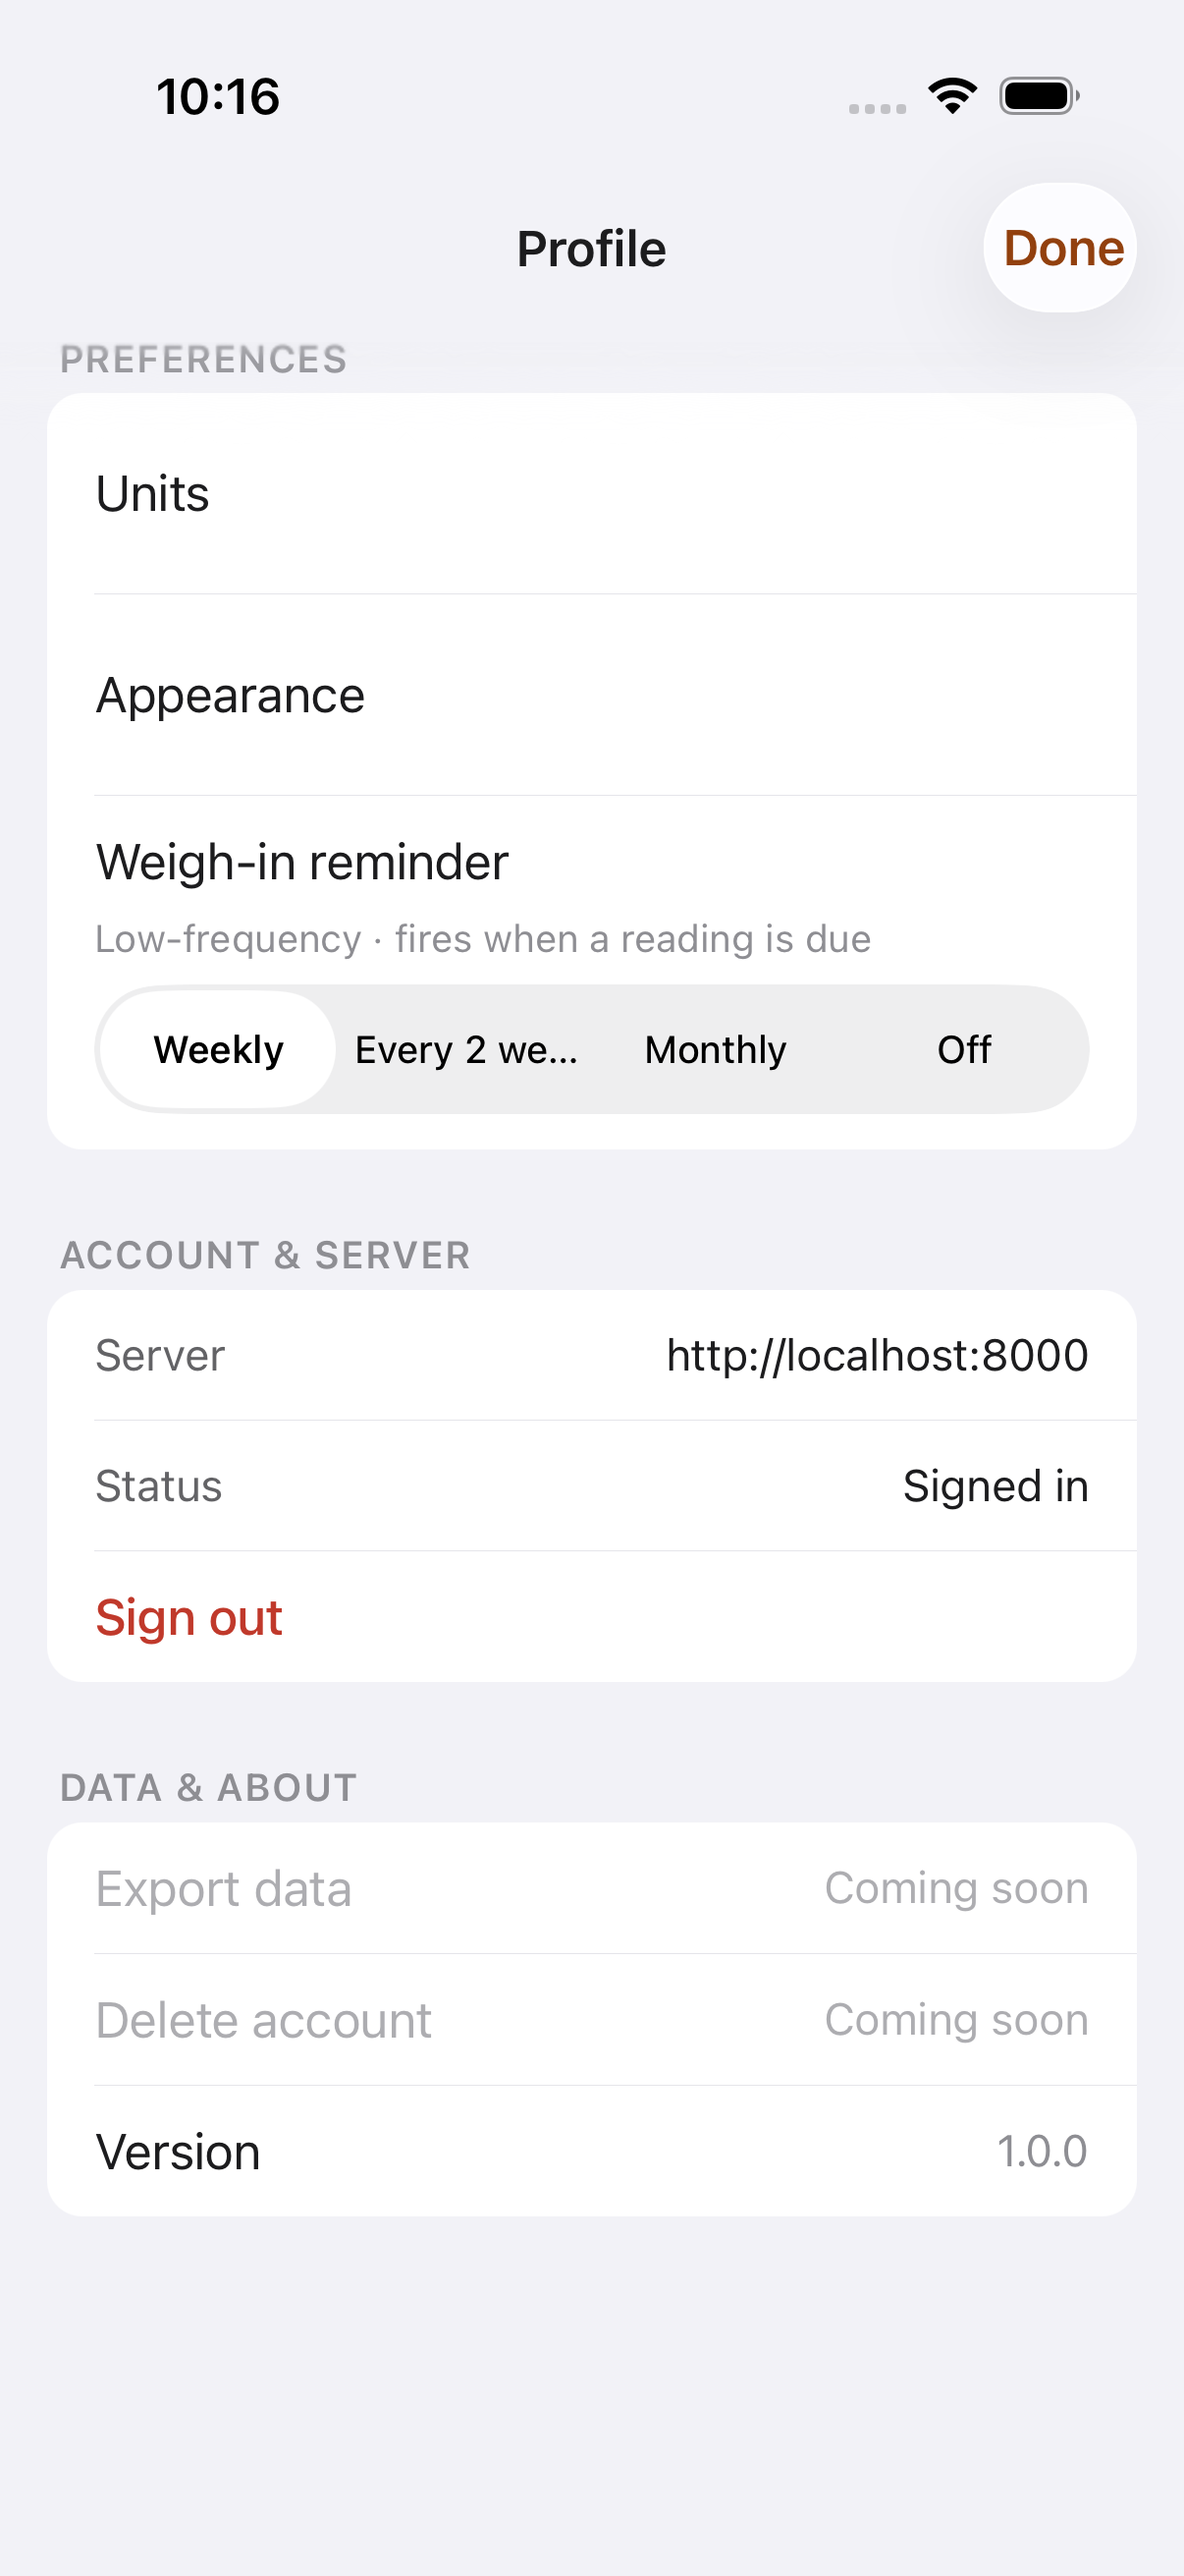
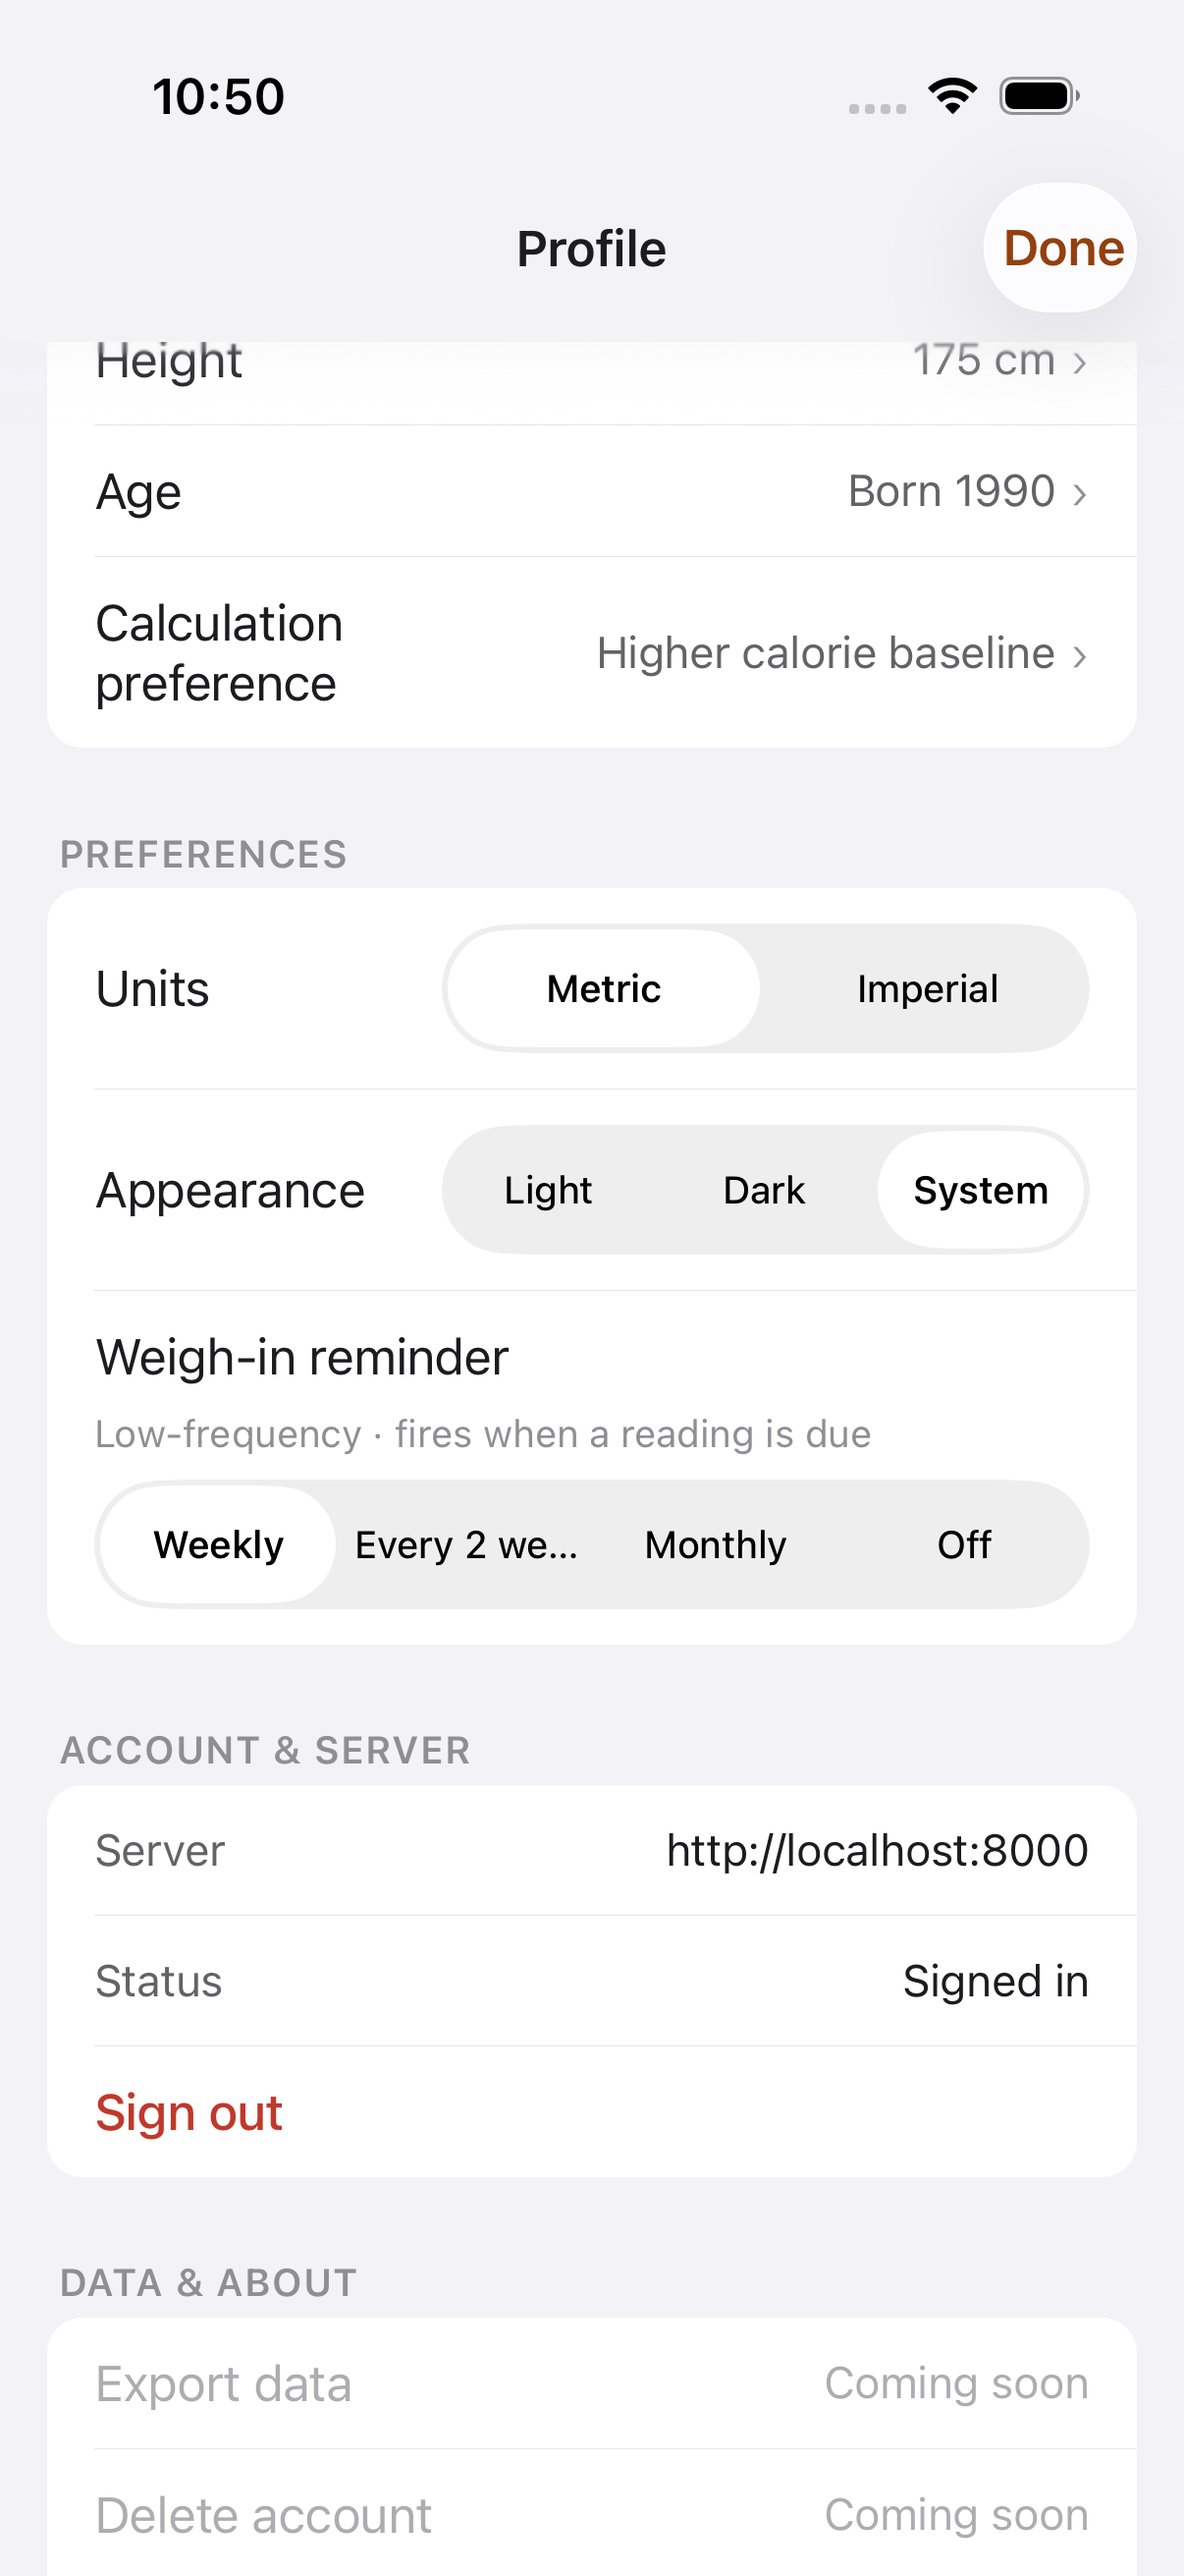
FTY-267: render inline Appearance/Units segmented controls in the visual-review seam
The settings.appearance visual-review target scrolled to Preferences but the
Appearance control rendered blank, so the target did not prove the SegmentedControl
(reviewer block on PR #233).

Root cause is pre-existing (FTY-222 #218): the shared SegmentedControl nests its
native control inside a caption-wrapper View, so PreferencesSection's inline
`prefControl` flex:1 style landed in that inner column wrapper and gave the Units
and Appearance controls zero width. Wrap each inline control in a
<View style={prefControl}> (a direct row child) so the flex sizes the row and the
control stretches to fill it; the column-layout cadence control is unaffected.

Strengthen the smoke flow to assert id: appearance-segmented-control (not just the
label) and re-capture settings-appearance-light.png showing the Light/Dark/System
control in view. No shared registry, other screen, or shared SegmentedControl code
touched.

diff --git a/mobile/components/settings/PreferencesSection.tsx b/mobile/components/settings/PreferencesSection.tsx
@@ -38,29 +38,31 @@ export function PreferencesSection({
       <GroupedCard colors={colors}>
         <View style={styles.prefRow}>
           <Text style={[styles.prefLabel, { color: colors.text }]}>Units</Text>
-          <SegmentedControl<UnitsPreference>
-            testID="units-segmented-control"
-            options={[
-              { value: 'metric', label: 'Metric' },
-              { value: 'imperial', label: 'Imperial' },
-            ]}
-            selected={c.profile?.units_preference ?? 'metric'}
-            onSelect={(v) => void c.handleUnitsChange(v)}
-            accessibilityLabel="Units preference"
-            style={styles.prefControl}
-          />
+          <View style={styles.prefControl}>
+            <SegmentedControl<UnitsPreference>
+              testID="units-segmented-control"
+              options={[
+                { value: 'metric', label: 'Metric' },
+                { value: 'imperial', label: 'Imperial' },
+              ]}
+              selected={c.profile?.units_preference ?? 'metric'}
+              onSelect={(v) => void c.handleUnitsChange(v)}
+              accessibilityLabel="Units preference"
+            />
+          </View>
         </View>
         <Separator colors={colors} />
         <View style={styles.prefRow}>
           <Text style={[styles.prefLabel, { color: colors.text }]}>Appearance</Text>
-          <SegmentedControl<ColorSchemeOverride>
-            testID="appearance-segmented-control"
-            options={APPEARANCE_OPTIONS}
-            selected={c.appearance}
-            onSelect={(v) => void c.handleAppearanceChange(v)}
-            accessibilityLabel="Appearance"
-            style={styles.prefControl}
-          />
+          <View style={styles.prefControl}>
+            <SegmentedControl<ColorSchemeOverride>
+              testID="appearance-segmented-control"
+              options={APPEARANCE_OPTIONS}
+              selected={c.appearance}
+              onSelect={(v) => void c.handleAppearanceChange(v)}
+              accessibilityLabel="Appearance"
+            />
+          </View>
         </View>
         <Separator colors={colors} />
         <View style={styles.prefColumn}>
@@ -101,8 +103,11 @@ const styles = StyleSheet.create({
   prefLabel: {
     fontSize: typeScale.body,
   },
-  // The inline control takes the remaining row width so its native segments
-  // size evenly beside the label.
+  // Wraps the inline control so this View (a direct row child) claims the
+  // remaining row width via flex; the SegmentedControl then stretches to fill
+  // it. The flex must live on a direct child of the row — SegmentedControl nests
+  // its native control inside a caption wrapper (FTY-222), so a `style` passed
+  // straight to it lands in that column wrapper and never sizes the row.
   prefControl: {
     flex: 1,
     maxWidth: 220,

diff --git a/docs/verification/FTY-267/README.md b/docs/verification/FTY-267/README.md
@@ -11,7 +11,7 @@ scroll gesture involved in reaching the sub-state itself.
 |------------|--------|-----------|--------|
 | `settings-goal-edit-light.png` | `settings.goal_edit` | `fatty://__visual-review?preset=settings.goal_edit&theme=light` | The E2E-only initial-state seam opens Settings with the goal editor (`goal-edit-card`) already active, seeded from the loaded goal (Lose · Steady) — not the `loss`/`steady` defaults, and not reached via a tap on the Goal row |
 | `settings-body-edit-light.png` | `settings.body_edit` | `fatty://__visual-review?preset=settings.body_edit&theme=light` | The same seam opens the weight editor (`body-metric-edit-card`, "NEW WEIGHT (KG)") already active |
-| `settings-appearance-light.png` | `settings.appearance` | `fatty://__visual-review?preset=settings.appearance&theme=light` | The seam scrolls the settings screen straight to the PREFERENCES section (large title collapsed to the small title, confirming a real scroll occurred) so the Appearance control is on screen with no manual scroll gesture |
+| `settings-appearance-light.png` | `settings.appearance` | `fatty://__visual-review?preset=settings.appearance&theme=light` | The seam scrolls the settings screen straight to the PREFERENCES section (large title collapsed, confirming a real scroll occurred) so the Appearance segmented control (`appearance-segmented-control`, Light/Dark/System) is fully on screen and interactable — the smoke flow asserts the control id, not just the label — with no manual scroll gesture |
 
 All three presets are registered from settings-owned code
 (`mobile/components/settings/visualReviewPresets.ts`) through FTY-247's
